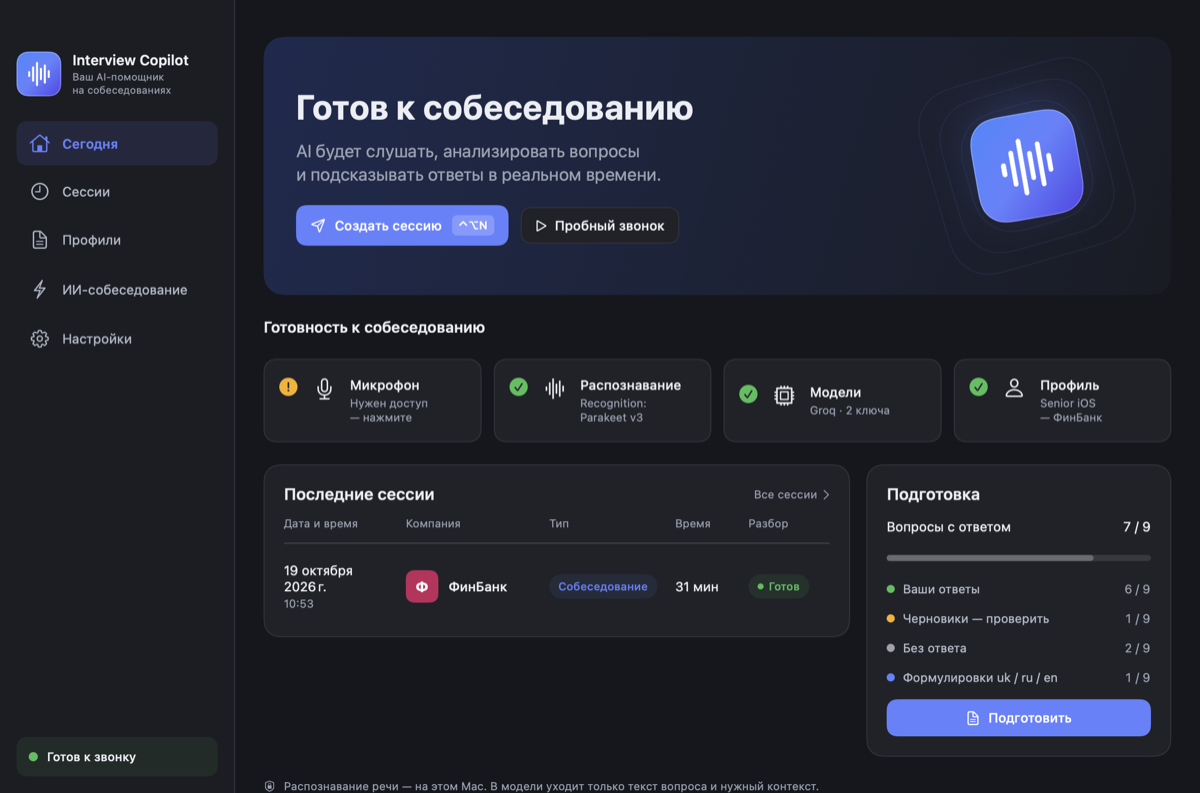
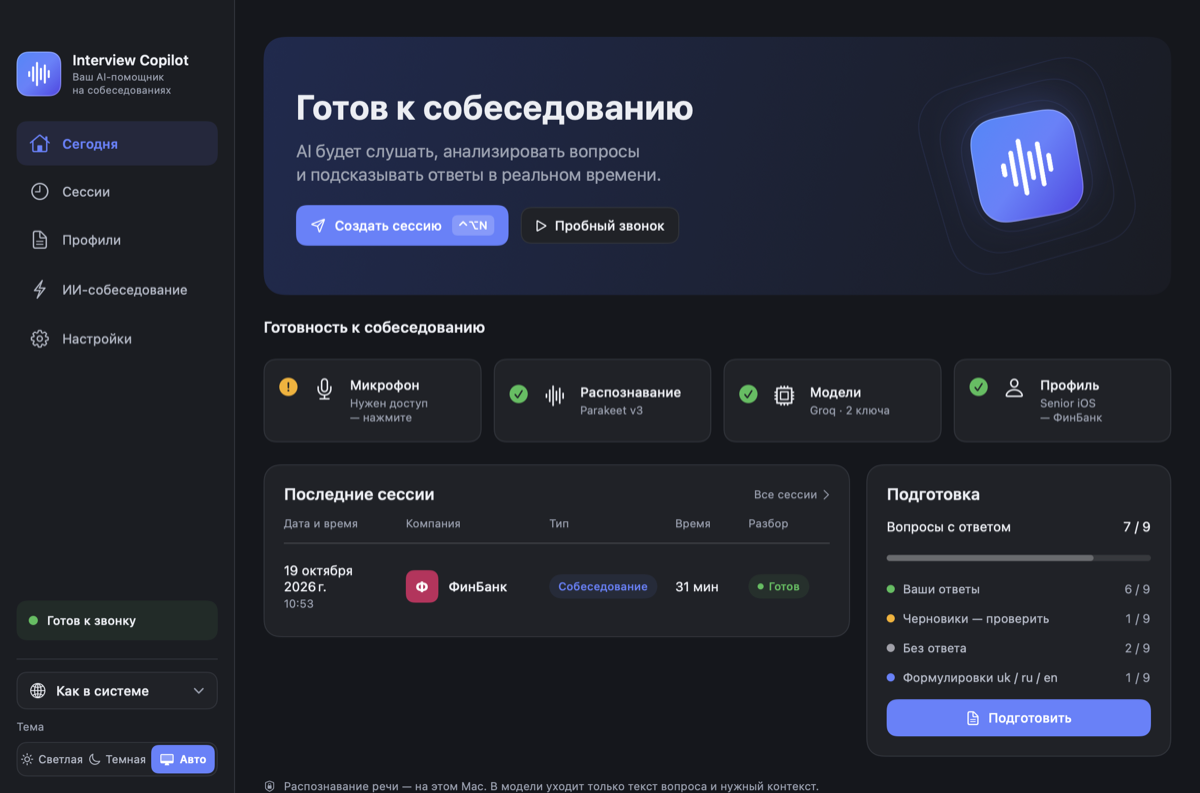
COPILOT-10: язык и тема внизу боковой панели главного окна
Меню языка (глобус, название, стрелка) и переключатель «Светлая / Темная / Авто» с иконками — по образцу владельца.

diff --git a/Sources/InterviewCopilot/Design/DesignSystem.swift b/Sources/InterviewCopilot/Design/DesignSystem.swift
@@ -1,4 +1,5 @@
 import AppKit
+import CopilotCore
 import SwiftUI
 
 /// P00: единые цвета, типографика и поверхности ImageGen. Компоненты остаются нативными и доступными.
@@ -117,6 +118,84 @@ struct ICSidebarRow: View {
             .background(selected ? IC.accent.opacity(0.12) : .clear, in: RoundedRectangle(cornerRadius: 10))
             .contentShape(Rectangle())
         }.buttonStyle(.plain).accessibilityAddTraits(selected ? .isSelected : [])
+    }
+}
+
+/// Язык интерфейса — внизу боковой панели (COPILOT-10): глобус, название, стрелка; меню со всеми вариантами.
+struct ICLanguageMenu: View {
+    @Binding var selection: InterfaceLanguage
+
+    var body: some View {
+        Menu {
+            Picker("Язык интерфейса", selection: $selection) {
+                ForEach([InterfaceLanguage.system, .ru, .en], id: \.self) { Text(Self.title($0)).tag($0) }
+            }
+            .pickerStyle(.inline)
+            .labelsHidden()
+        } label: {
+            HStack(spacing: 9) {
+                Image(systemName: "globe").font(.system(size: 15))
+                Text(Self.title(selection)).font(.system(size: 13, weight: .medium)).lineLimit(1)
+                Spacer(minLength: 0)
+                Image(systemName: "chevron.down").font(.system(size: 11, weight: .semibold)).foregroundStyle(IC.secondary)
+            }
+            .foregroundStyle(IC.ink)
+            .padding(.horizontal, 12).padding(.vertical, 10)
+            .background(IC.card, in: RoundedRectangle(cornerRadius: 10))
+            .overlay(RoundedRectangle(cornerRadius: 10).strokeBorder(IC.line))
+            .contentShape(Rectangle())
+        }
+        .menuStyle(.button)
+        .buttonStyle(.plain)
+        .menuIndicator(.hidden)
+        .accessibilityLabel(L("Язык интерфейса: %@", L(Self.title(selection))))
+    }
+
+    /// Названия языков — на своем языке, как принято в переключателях.
+    static func title(_ language: InterfaceLanguage) -> String {
+        switch language {
+        case .system: L("Как в системе")
+        case .ru: "Русский"
+        case .en: "English"
+        }
+    }
+}
+
+/// Тема окон — сегменты «Светлая / Темная / Авто» с иконками, выбранный — акцентной заливкой.
+struct ICThemeSwitch: View {
+    @Binding var selection: AppTheme
+    @Environment(\.accessibilityReduceMotion) private var reduceMotion
+
+    private static let options: [(AppTheme, String, String)] = [
+        (.light, "Светлая", "sun.max"), (.dark, "Темная", "moon"), (.system, "Авто", "desktopcomputer"),
+    ]
+
+    var body: some View {
+        HStack(spacing: 2) {
+            ForEach(Self.options, id: \.0) { theme, title, icon in
+                let selected = selection == theme
+                Button {
+                    if reduceMotion { selection = theme } else { withAnimation(.easeOut(duration: 0.15)) { selection = theme } }
+                } label: {
+                    HStack(spacing: 4) {
+                        Image(systemName: icon).font(.system(size: 11, weight: .medium))
+                        Text(L(title)).font(.system(size: 11, weight: selected ? .semibold : .regular)).lineLimit(1)
+                            .minimumScaleFactor(0.8)
+                    }
+                    .foregroundStyle(selected ? Color.white : IC.ink2)
+                    .frame(maxWidth: .infinity)
+                    .padding(.vertical, 7)
+                    .background(selected ? IC.accent : .clear, in: RoundedRectangle(cornerRadius: 7))
+                    .contentShape(Rectangle())
+                }
+                .buttonStyle(.plain)
+                .accessibilityLabel(L("Тема: %@", L(title)))
+                .accessibilityAddTraits(selected ? .isSelected : [])
+            }
+        }
+        .padding(3)
+        .background(IC.card, in: RoundedRectangle(cornerRadius: 10))
+        .overlay(RoundedRectangle(cornerRadius: 10).strokeBorder(IC.line))
     }
 }
 

diff --git a/Sources/InterviewCopilot/Workspace/WorkspaceWindow.swift b/Sources/InterviewCopilot/Workspace/WorkspaceWindow.swift
@@ -154,6 +154,13 @@ struct WorkspaceView: View {
             .frame(maxWidth: .infinity, alignment: .leading)
             .background(statusColor.opacity(0.09), in: RoundedRectangle(cornerRadius: 10))
             .accessibilityElement(children: .combine)
+            // Язык и тема — всегда под рукой (COPILOT-10); те же настройки — в «Настройки → Основное».
+            VStack(alignment: .leading, spacing: 8) {
+                Rectangle().fill(IC.line).frame(height: 1).padding(.bottom, 4)
+                ICLanguageMenu(selection: $model.settings.interfaceLanguage)
+                Text("Тема").font(.system(size: 11)).foregroundStyle(IC.secondary).padding(.top, 2)
+                ICThemeSwitch(selection: $model.settings.theme)
+            }
         }
         .padding(16)
         .frame(width: 230)

diff --git a/Sources/InterviewCopilot/UISnapshots.swift b/Sources/InterviewCopilot/UISnapshots.swift
@@ -169,6 +169,7 @@ enum UISnapshots {
                renderWeb(page, size: NSSize(width: 1100, height: 760), to: dir.appendingPathComponent("\(name).png")) { count += 1 }
         }
         UILanguage.shared.apply(.ru)
+        ws.recognitionStatus = L("Распознавание: %@", "Parakeet v3")
 
         // COPILOT-10: темная тема окон.
         for (name, section) in [("today", WorkspaceSection.today), ("sessions", .sessions)] {

diff --git a/docs/changes/COPILOT-10/handoff.md b/docs/changes/COPILOT-10/handoff.md
@@ -33,6 +33,9 @@ ID: COPILOT-10-handoff · Статус: **этапы 1–2 готовы (0.14.0,
     страницы без русского в английском интерфейсе.
   - Снимки `en-*` (18) из бинарника `.app`; отобранные — `docs/design/copilot-10/`.
   - Версия 0.14.0 (build 35).
+- Последний штрих (по образцу владельца 2026-10-25): внизу боковой панели главного окна — меню языка (глобус, название,
+  стрелка) и переключатель темы «Светлая / Темная / Авто» с иконками; компоненты `ICLanguageMenu`, `ICThemeSwitch`
+  (`DesignSystem.swift`), та же настройка, что в «Настройки → Основное». Названия языков в меню — на своем языке.
 
 ## Решения исполнителя
 - Ключ — русская строка, не идентификатор: код читается как раньше, русский интерфейс не требует таблицы, нет перевода —
@@ -54,7 +57,7 @@ ID: COPILOT-10-handoff · Статус: **этапы 1–2 готовы (0.14.0,
 | `swift test` | PASS — 337 тестов в 51 наборе |
 | `scripts/run-evals.sh` | PASS — bank, filter-text, memory, materials (5 PASS, 0 FAIL) |
 | `scripts/secret-scan.sh` | PASS — 0 findings |
-| `scripts/check-localization.sh` | PASS — 786 ключей, 786 переводов, 0 без перевода, 0 несовпадений форматов |
+| `scripts/check-localization.sh` | PASS — 789 ключей, 789 переводов, 0 без перевода, 0 несовпадений форматов |
 | `scripts/build-app.sh` | PASS — `dist/InterviewCopilot.app` подписан |
 | `--ui-snapshots` из `.app` | 93 PNG; русские и английские экраны просмотрены |
 
